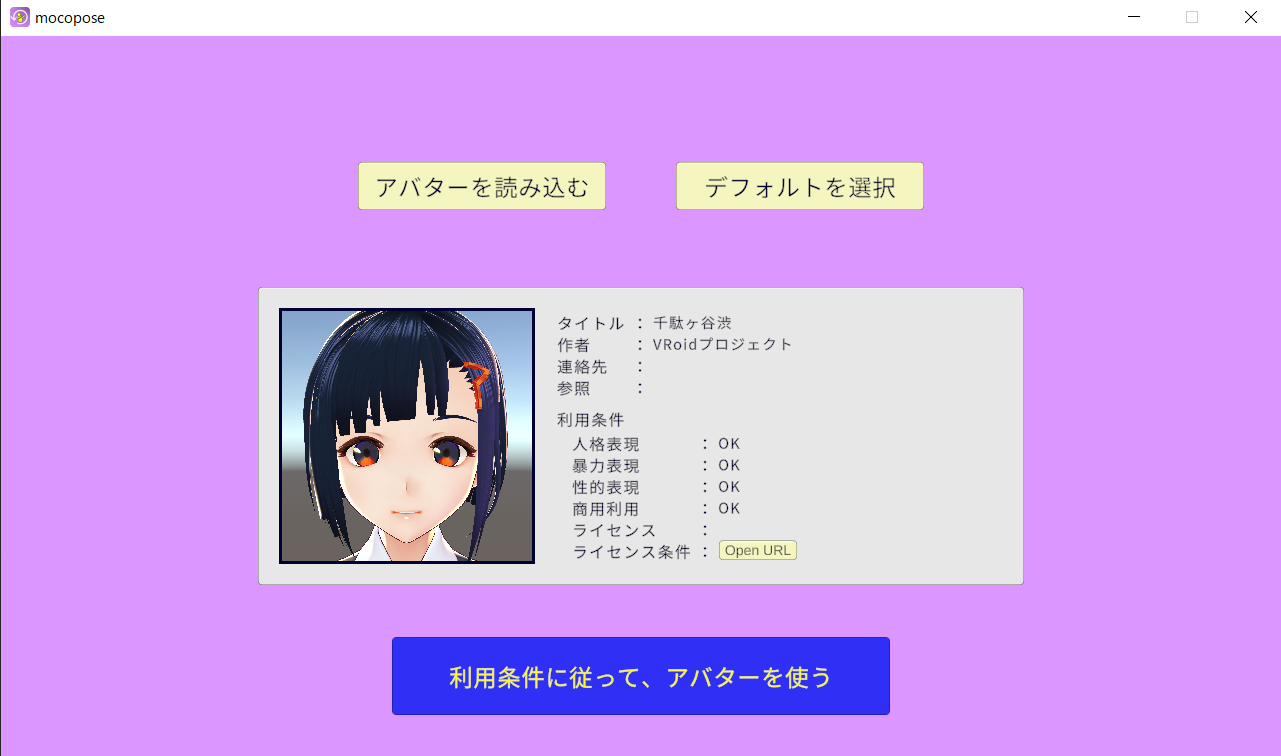
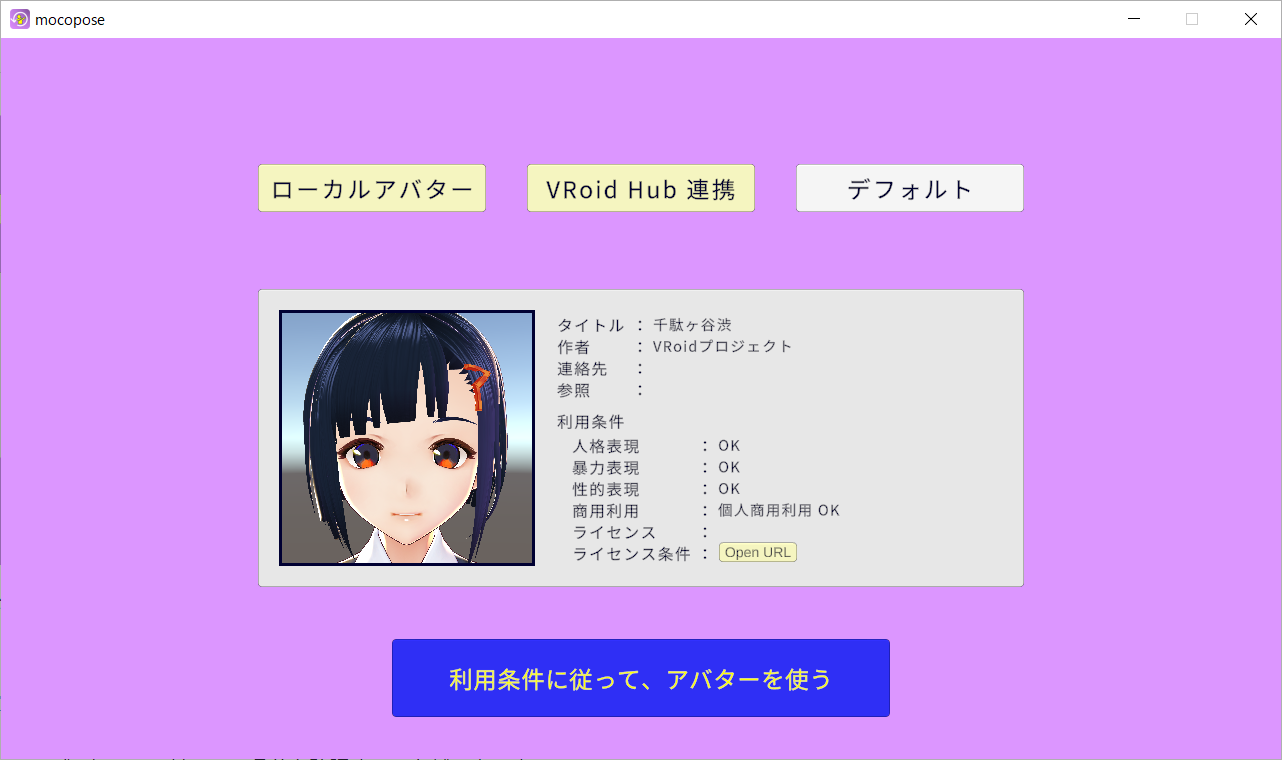
VRoid対応に関するドキュメントの更新 (#5)

diff --git a/Document/Manual.md b/Document/Manual.md
@@ -1,5 +1,5 @@
 # mocopose (もこポーズ) マニュアル
-アプリバージョン：0.2
+アプリバージョン：0.3
 
 
 ## mocopose とは？
@@ -51,8 +51,12 @@
 
 <img src="Image/avatar.png" width="640">
 
-- 「アバターを読み込む」ボタンを押すことでダイアログが表示され、読み込みたい VRM モデルを選択できます
+- 「ローカルアバター」ボタンを押すことでダイアログが表示され、ローカル環境にある読み込みたい VRM モデルを選択できます
    - 読み込み後 VRM モデルの情報を参照できます
+<br/><br/>
+- 「VRoid Hub 連携」ボタンを押すことでVRoid Hub 上のモデルを選択できます
+   - VRoid Hub に関するログインが必要です
+   - 利用条件を確認して同意したうえでモデルを選択します
 <br/><br/>
 - 「デフォルトを選択」ボタンを押すことで、アプリに設定されたデフォルトの VRM モデルが読み込まれます
 <br/><br/>
